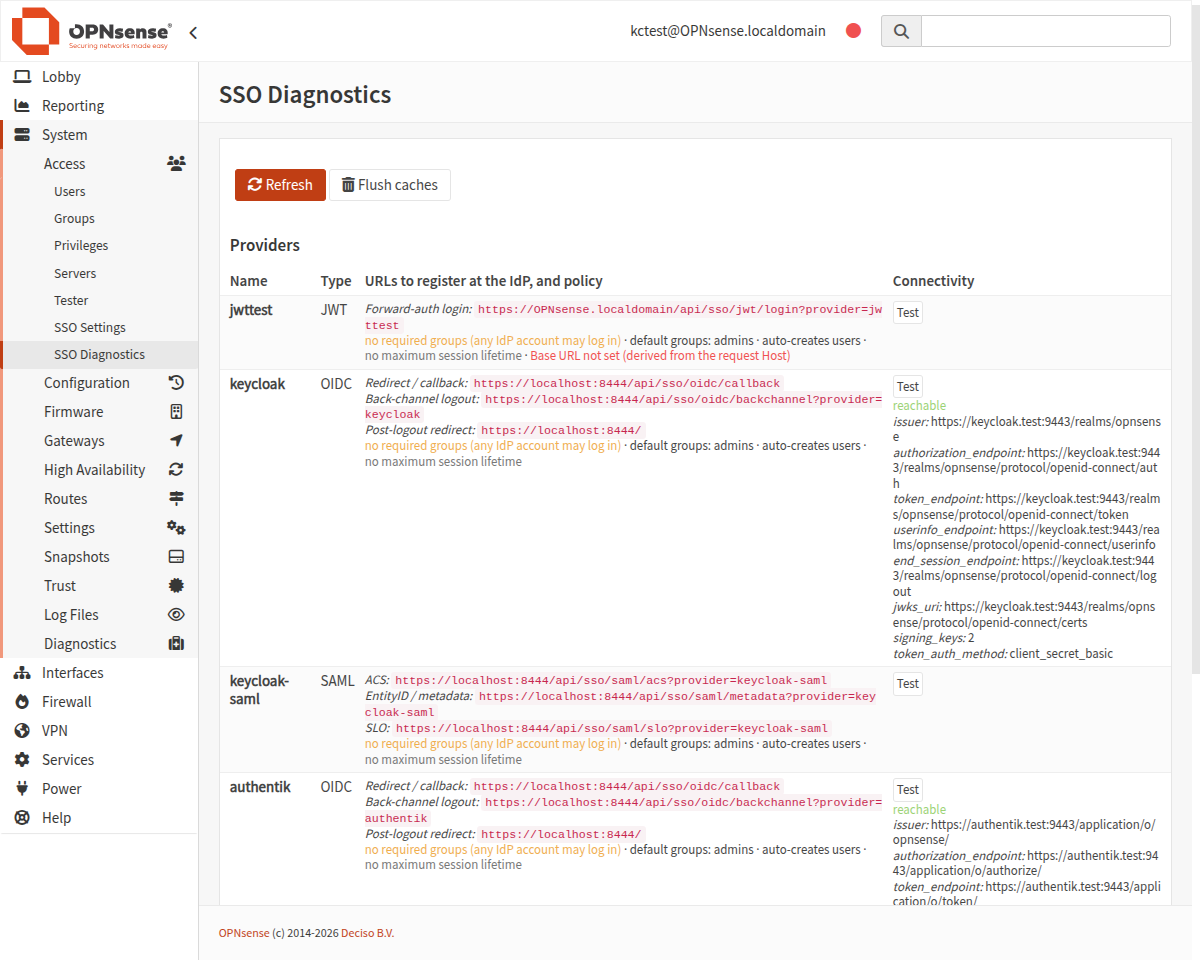
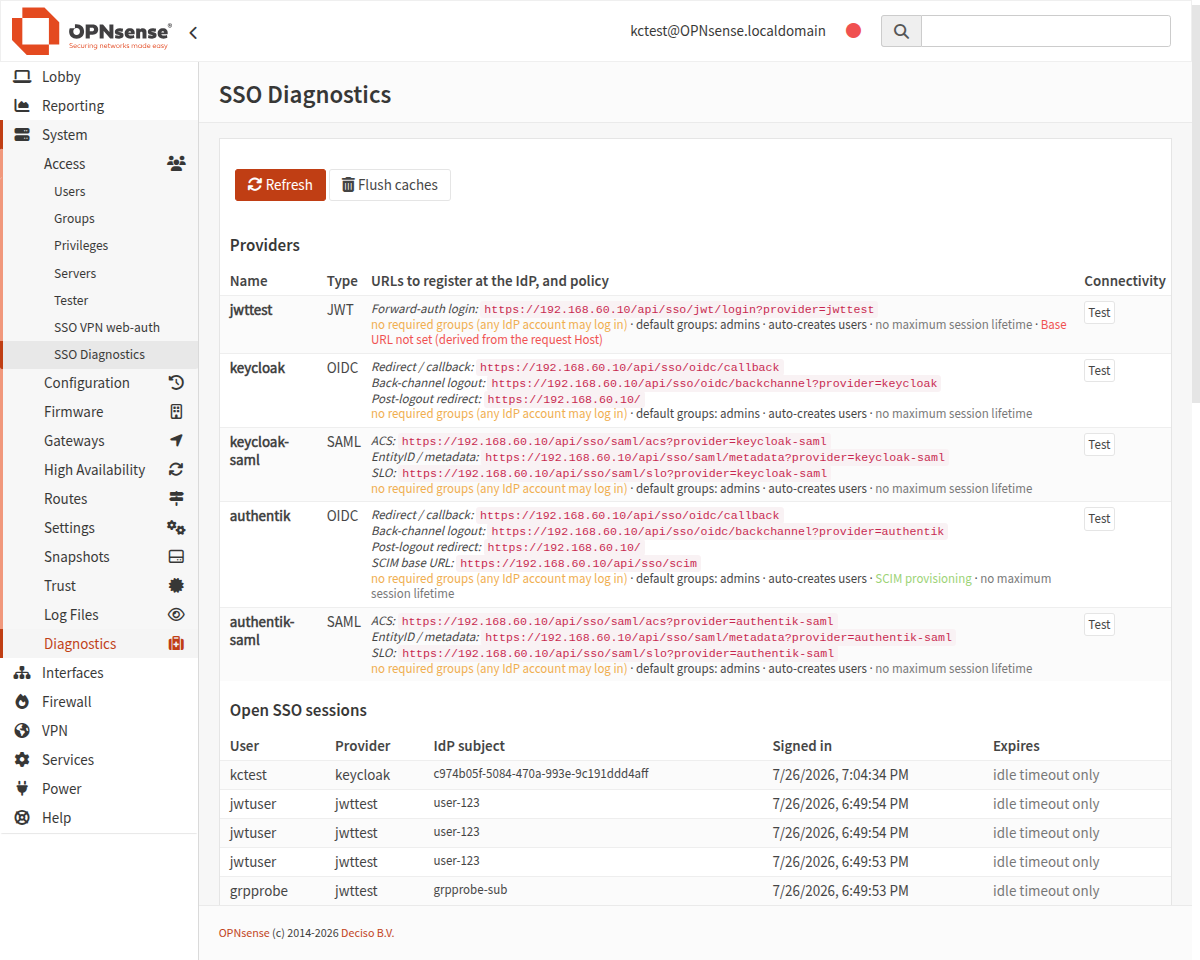
docs: document SCIM across the readme, package metadata and diagnostics

diff --git a/src/opnsense/mvc/app/controllers/OPNsense/SSO/Api/DiagnosticsController.php b/src/opnsense/mvc/app/controllers/OPNsense/SSO/Api/DiagnosticsController.php
@@ -51,7 +51,8 @@ class DiagnosticsController extends ApiControllerBase
                 'required_groups' => implode(', ', (array)$auth->ssoRequiredGroups),
                 'default_groups' => implode(', ', (array)$auth->ssoDefaultGroups),
                 'session_lifetime' => (int)($auth->ssoSessionLifetime ?? 0),
-                'urls' => $this->urlsFor($type, $base, $name),
+                'scim' => !empty($auth->ssoScimEnabled),
+                'urls' => $this->urlsFor($type, $base, $name, !empty($auth->ssoScimEnabled)),
             ];
             $out[] = $row;
         }
@@ -219,25 +220,34 @@ class DiagnosticsController extends ApiControllerBase
     }
 
     /** The URLs an operator has to register at the IdP for this provider. */
-    private function urlsFor(string $type, string $base, string $name): array
+    private function urlsFor(string $type, string $base, string $name, bool $scim = false): array
     {
         $q = '?provider=' . rawurlencode($name);
         switch ($type) {
             case 'oidc':
-                return [
+                $urls = [
                     'Redirect / callback' => $base . '/api/sso/oidc/callback',
                     'Back-channel logout' => $base . '/api/sso/oidc/backchannel' . $q,
                     'Post-logout redirect' => $base . '/',
                 ];
+                break;
             case 'saml':
-                return [
+                $urls = [
                     'ACS' => $base . '/api/sso/saml/acs' . $q,
                     'EntityID / metadata' => $base . '/api/sso/saml/metadata' . $q,
                     'SLO' => $base . '/api/sso/saml/slo' . $q,
                 ];
+                break;
             default:
-                return ['Forward-auth login' => $base . '/api/sso/jwt/login' . $q];
+                $urls = ['Forward-auth login' => $base . '/api/sso/jwt/login' . $q];
+                break;
         }
+        if ($scim) {
+            // One base URL for every provider: the bearer token is what says which
+            // one a request belongs to.
+            $urls['SCIM base URL'] = $base . '/api/sso/scim';
+        }
+        return $urls;
     }
 
     /** @return \SimpleXMLElement[] */

diff --git a/README.md b/README.md
@@ -1,4 +1,4 @@
-# os-sso - Single Sign-On for OPNsense
+# os-sso - Single Sign-On (SSO) and SCIM provisioning for OPNsense
 
 Add **OpenID Connect**, **SAML 2.0** and **JWT forward-auth** as authentication
 types in OPNsense. The firewall acts as a pure consumer (Relying Party / Service
@@ -6,8 +6,9 @@ Provider): your users sign in at your existing Identity Provider, and MFA and
 passkeys stay there - nothing to re-implement on the firewall.
 
 Works for the **WebGUI**, the **Captive Portal** and **OpenVPN**, with group
-mapping driving OPNsense privileges. The local password (+ native TOTP) always
-stays available as a break-glass path.
+mapping driving OPNsense privileges, and takes **SCIM 2.0** provisioning from the
+same IdP so account lifecycle does not wait for a login. The local password
+(+ native TOTP) always stays available as a break-glass path.
 
 ## Features
 
@@ -35,6 +36,10 @@ stays available as a break-glass path.
 | Captive Portal login | OpenVPN web-auth settings | SSO diagnostics |
 |---|---|---|
 | ![Captive portal login page](assets/cp_portal.png) | ![OpenVPN web-auth settings](assets/vpn_settings.png) | ![SSO diagnostics](assets/sso_diagnostics.png) |
+
+| SCIM provisioning, on the authentication server |
+|---|
+| ![SCIM settings](assets/scim_settings.png) |
 
 ## Requirements
 
@@ -76,6 +81,9 @@ All types share a few options:
   Portal and VPN alike). Checked on the IdP-asserted groups before any local
   account is matched, created or updated. Empty means every account the IdP
   authenticates may log in - set it unless that is what you want.
+- **SCIM provisioning** - lets the IdP push account lifecycle instead of os-sso
+  waiting for a login. Needs a bearer token and, strongly recommended, the source
+  addresses the IdP connects from. See [SCIM provisioning](#scim-provisioning).
 - **Deprovision on refused login** - when the required groups above refuse a login,
   also disable the local account behind it and end its open sessions. A login attempt
   is the only moment a firewall plugin hears about a revocation at the IdP, so this is
@@ -209,8 +217,8 @@ WebGUI with privileges from their mapped groups.
    core naming rule: a template *name* may not contain a hyphen (letters, digits,
    `.`, `,`, `_` and spaces only).
 
-   In the lab, `test/vagrant/setup-cp.sh` does the whole thing — zone, template,
-   render, unpack, start — and documents the ordering the UI normally handles.
+   In the lab, `test/vagrant/setup-cp.sh` does the whole thing - zone, template,
+   render, unpack, start - and documents the ordering the UI normally handles.
 4. Make sure the zone lets unauthenticated clients reach the firewall WebGUI and
    the IdP (zone *allowed addresses* / pre-auth) so the login can complete.
 
@@ -343,6 +351,11 @@ waiting out a TTL. Access is gated by its own ACL privilege,
 - OIDC validates `iss`/`aud`/`azp`/`nonce`/`exp` and requires an asymmetric
   signature; SAML verifies the assertion signature and is replay-protected
   (single-use request id + consumed-assertion cache).
+- The SCIM endpoint is gated by a bearer token **and** a source-address allowlist,
+  and refuses on the same principles as the login path: no privileged account is
+  ever modified or disabled, no password-owning account is taken over, a delete
+  deactivates rather than removes, and a group carrying administrative privileges
+  takes no membership from a directory.
 - The local password (+ native TOTP) is always left active as a **break-glass**
   path - keep at least one local admin.
 
